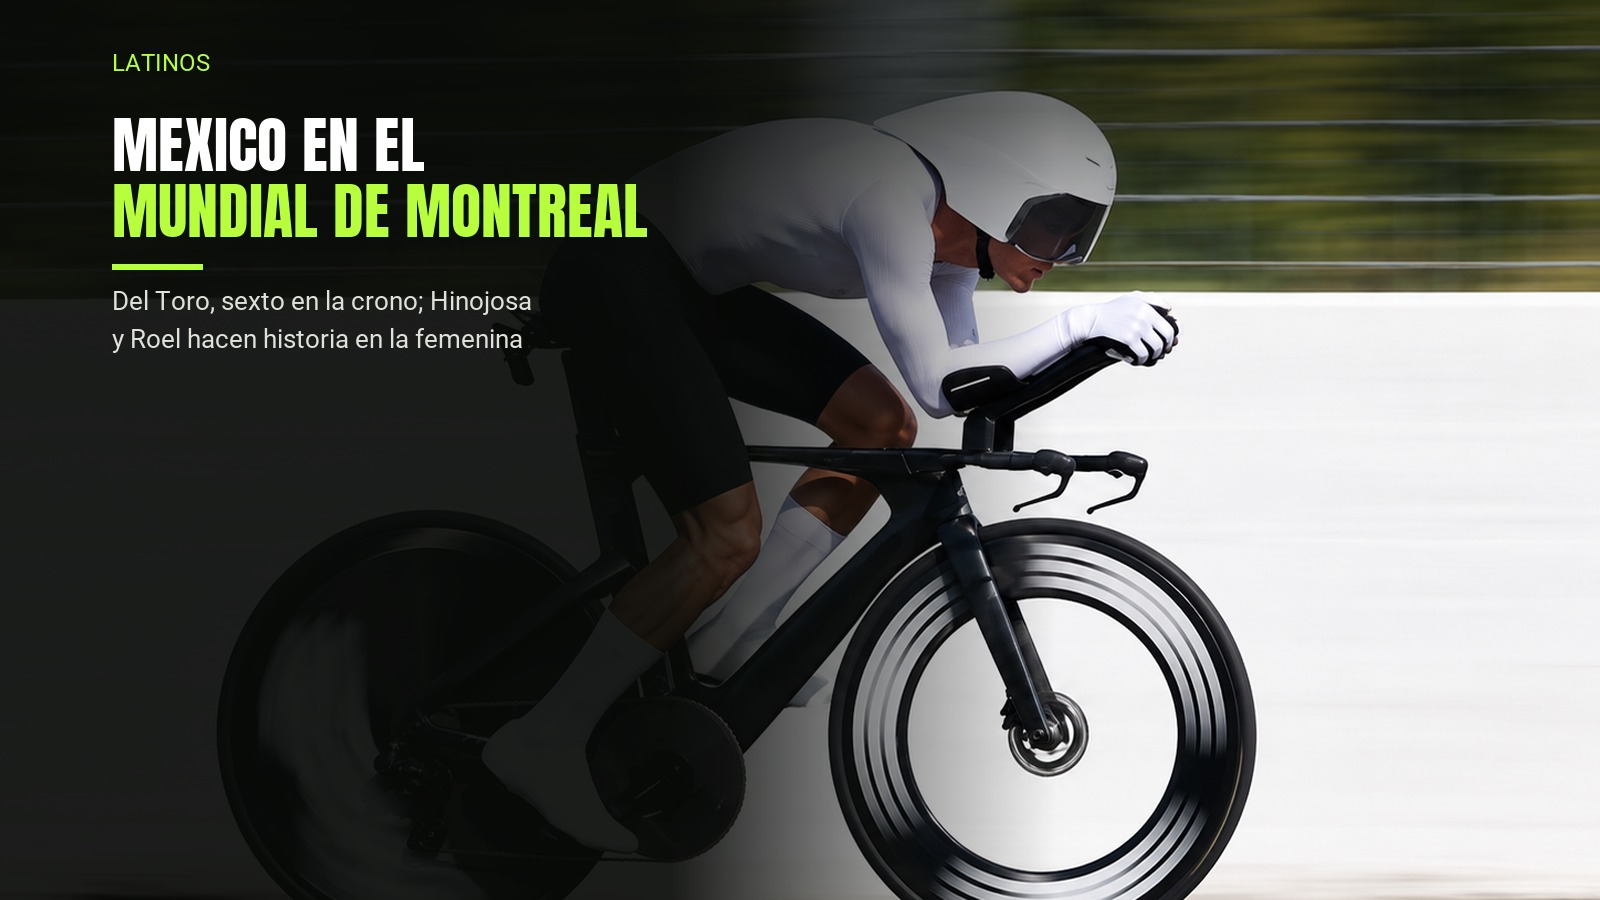
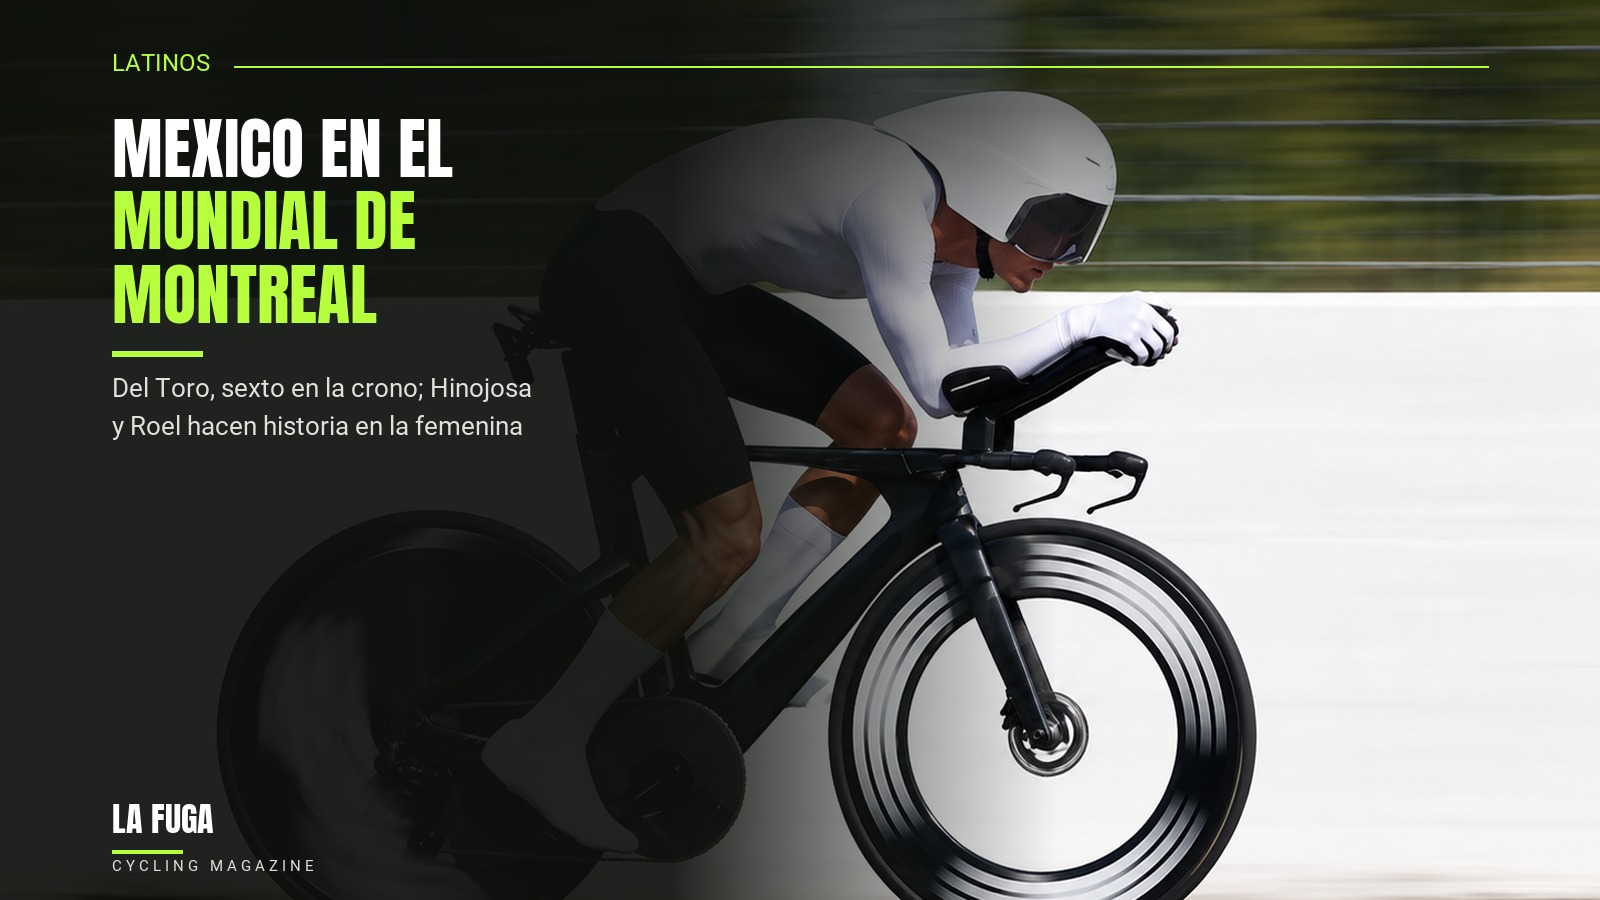
Establece plantilla estándar de carátulas con lockup de marca
Nuevo scripts/gen_cover_template.py: referencia reutilizable para
todas las carátulas futuras — mismo tamaño/posición de texto,
tipografía (Anton/Inter) y proporción foto/texto ya usados, más dos
elementos nuevos: línea divisora junto a la etiqueta de categoría, y
el lockup "LA FUGA / CYCLING MAGAZINE" en la esquina inferior
izquierda. Actualiza de paso la carátula de México en el Mundial con
esta plantilla.

diff --git a/scripts/gen_cover_template.py b/scripts/gen_cover_template.py
@@ -1,0 +1,135 @@
+"""
+Plantilla estándar de carátulas de La Fuga (1600x900).
+
+Guarda los parámetros de diseño acordados con el usuario el 21 de
+septiembre de 2026: tamaño/posición del bloque de texto respecto a la
+foto, tamaño de fuente, tipografía, y el nuevo lockup "LA FUGA /
+CYCLING MAGAZINE" en la esquina inferior izquierda. Este archivo es la
+referencia — cada script de carátula por artículo debe copiar esta
+función en vez de reinventar el layout.
+
+Uso:
+    from gen_cover_template import render_cover
+    render_cover(
+        src_path=...,          # foto de origen (cualquier tamaño; se recorta a 16:9)
+        out_path=...,
+        crop_top=...,          # offset vertical del recorte (ajustar por foto)
+        label="ULTIMA HORA",   # etiqueta de categoría, arriba a la izquierda
+        title_lines=[("EVENEPOEL GANA", "white"), ("SU CUARTA CRONO", "lime"), ...],
+        subtitle_lines=["...", "..."],
+    )
+"""
+
+from PIL import Image, ImageDraw, ImageFont
+
+W, H = 1600, 900
+LIME = (183, 255, 60)
+WHITE = (255, 255, 255)
+SUBGRAY = (223, 226, 219)
+BG = (13, 16, 12)
+
+FONT_ANTON = "/Users/negritoviajero2019/Desktop/cycling-magazine/public/fonts/Anton-Regular.ttf"
+FONT_INTER = "/Users/negritoviajero2019/Desktop/cycling-magazine/public/fonts/Inter-Regular.ttf"
+
+COLORS = {"white": WHITE, "lime": LIME, "gray": SUBGRAY}
+
+
+def _draw_text_isolated(target, xy, text, font, fill):
+    """Dibuja cada línea en su propia capa transparente antes de compositar —
+    evita el bug de Pillow/FreeType con glifos compuestos (p.ej. 'Č') sobre
+    lienzos RGBA grandes derivados de una foto real."""
+    bbox = font.getbbox(text)
+    pad = 20
+    w = bbox[2] - bbox[0] + pad * 2
+    h = bbox[3] - bbox[1] + pad * 2
+    layer = Image.new("RGBA", (w, h), (0, 0, 0, 0))
+    d = ImageDraw.Draw(layer)
+    d.text((pad - bbox[0], pad - bbox[1]), text, font=font, fill=fill)
+    target.alpha_composite(layer, (int(xy[0] - pad), int(xy[1] - pad)))
+
+
+def render_cover(
+    src_path,
+    out_path,
+    label,
+    title_lines,
+    subtitle_lines,
+    crop_top=100,
+    anton_size=68,
+    gradient_solid_end_frac=0.42,
+    gradient_fade_end_frac=0.66,
+):
+    src = Image.open(src_path).convert("RGB")
+    sw, sh = src.size
+    crop_h = round(sw * 9 / 16)
+    crop = src.crop((0, crop_top, sw, crop_top + crop_h))
+    canvas = crop.resize((W, H), Image.LANCZOS).convert("RGBA")
+
+    # degradado oscuro izquierda -> foto visible a la derecha
+    gradient = Image.new("L", (W, 1), color=0)
+    solid_end = int(W * gradient_solid_end_frac)
+    fade_end = int(W * gradient_fade_end_frac)
+    for x in range(W):
+        if x < solid_end:
+            a = 235
+        elif x < fade_end:
+            t = (x - solid_end) / (fade_end - solid_end)
+            a = int(235 * (1 - t))
+        else:
+            a = 0
+        gradient.putpixel((x, 0), a)
+    gradient = gradient.resize((W, H))
+    overlay = Image.new("RGBA", (W, H), BG + (255,))
+    overlay.putalpha(gradient)
+    canvas = Image.alpha_composite(canvas, overlay)
+
+    # degradado superior sutil, para que la etiqueta de categoría respire
+    top_grad = Image.new("L", (1, H), color=0)
+    for y in range(H):
+        a = 150 if y < 110 else max(0, int(150 * (1 - (y - 110) / 180)))
+        top_grad.putpixel((0, y), a)
+    top_grad = top_grad.resize((W, H))
+    top_overlay = Image.new("RGBA", (W, H), BG + (255,))
+    top_overlay.putalpha(top_grad)
+    canvas = Image.alpha_composite(canvas, top_overlay)
+
+    draw = ImageDraw.Draw(canvas)
+    indent = int(W * 0.07)
+
+    # ---- etiqueta de categoría + línea divisora a todo lo ancho ----
+    label_font = ImageFont.truetype(FONT_INTER, 24)
+    _draw_text_isolated(canvas, (indent, 54), label, label_font, LIME)
+    label_w = label_font.getbbox(label)[2] + 24
+    line_y = 54 + 12
+    draw.line([(indent + label_w, line_y), (W - indent, line_y)], fill=(*LIME, 140), width=2)
+
+    # ---- título ----
+    title_font = ImageFont.truetype(FONT_ANTON, anton_size)
+    y = 118
+    line_h = int(anton_size * 1.08)
+    for text, color_name in title_lines:
+        _draw_text_isolated(canvas, (indent, y), text, title_font, COLORS[color_name])
+        y += line_h
+
+    y += 14
+    draw.rectangle([indent, y, indent + 90, y + 5], fill=LIME)
+    y += 26
+
+    # ---- subtítulo ----
+    sub_font = ImageFont.truetype(FONT_INTER, 26)
+    for line in subtitle_lines:
+        _draw_text_isolated(canvas, (indent, y), line, sub_font, SUBGRAY)
+        y += 38
+
+    # ---- lockup de marca, esquina inferior izquierda ----
+    brand_font = ImageFont.truetype(FONT_ANTON, 34)
+    brand_y = H - 96
+    _draw_text_isolated(canvas, (indent, brand_y), "LA FUGA", brand_font, WHITE)
+    rule_y = brand_y + 46
+    draw.rectangle([indent, rule_y, indent + 70, rule_y + 3], fill=LIME)
+    sub_brand_font = ImageFont.truetype(FONT_INTER, 15)
+    _draw_text_isolated(canvas, (indent, rule_y + 10), "C Y C L I N G   M A G A Z I N E", sub_brand_font, SUBGRAY)
+
+    final = canvas.convert("RGB")
+    final.save(out_path, quality=92)
+    return final.size
